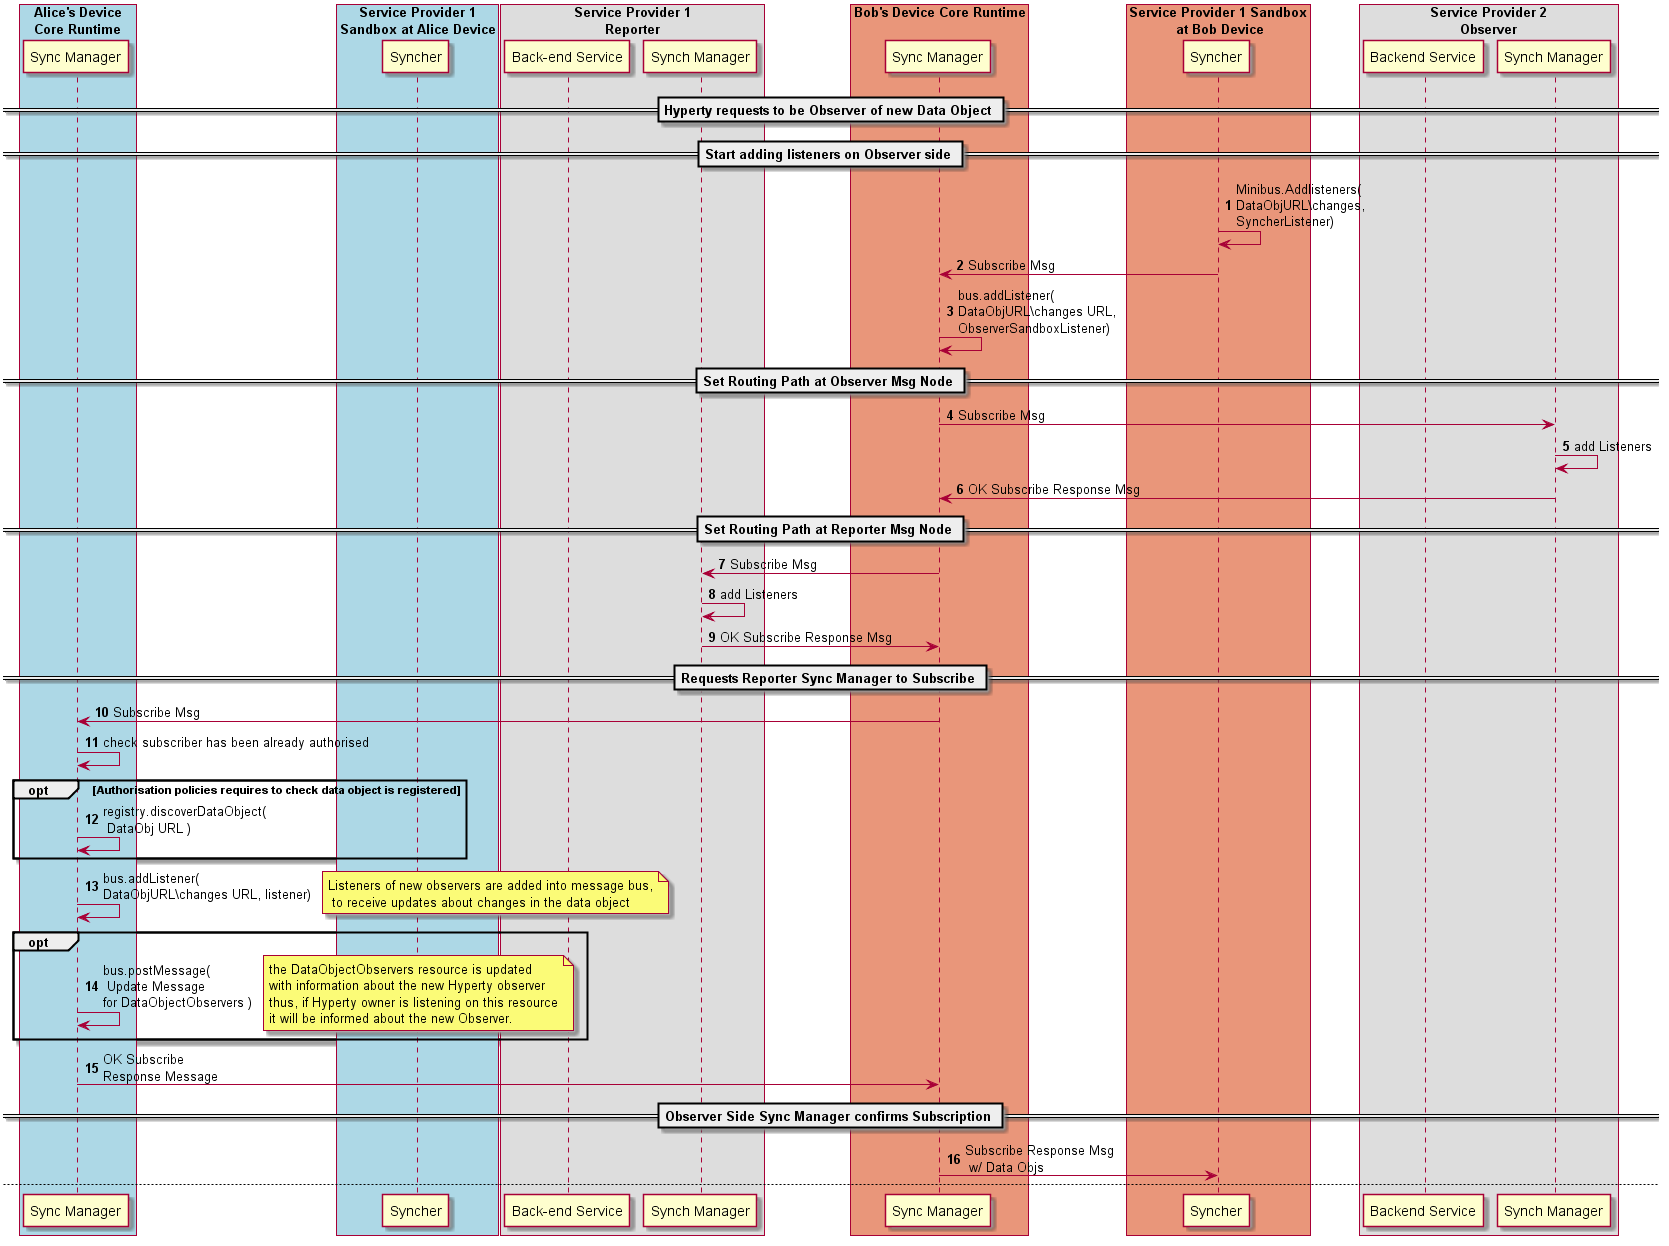
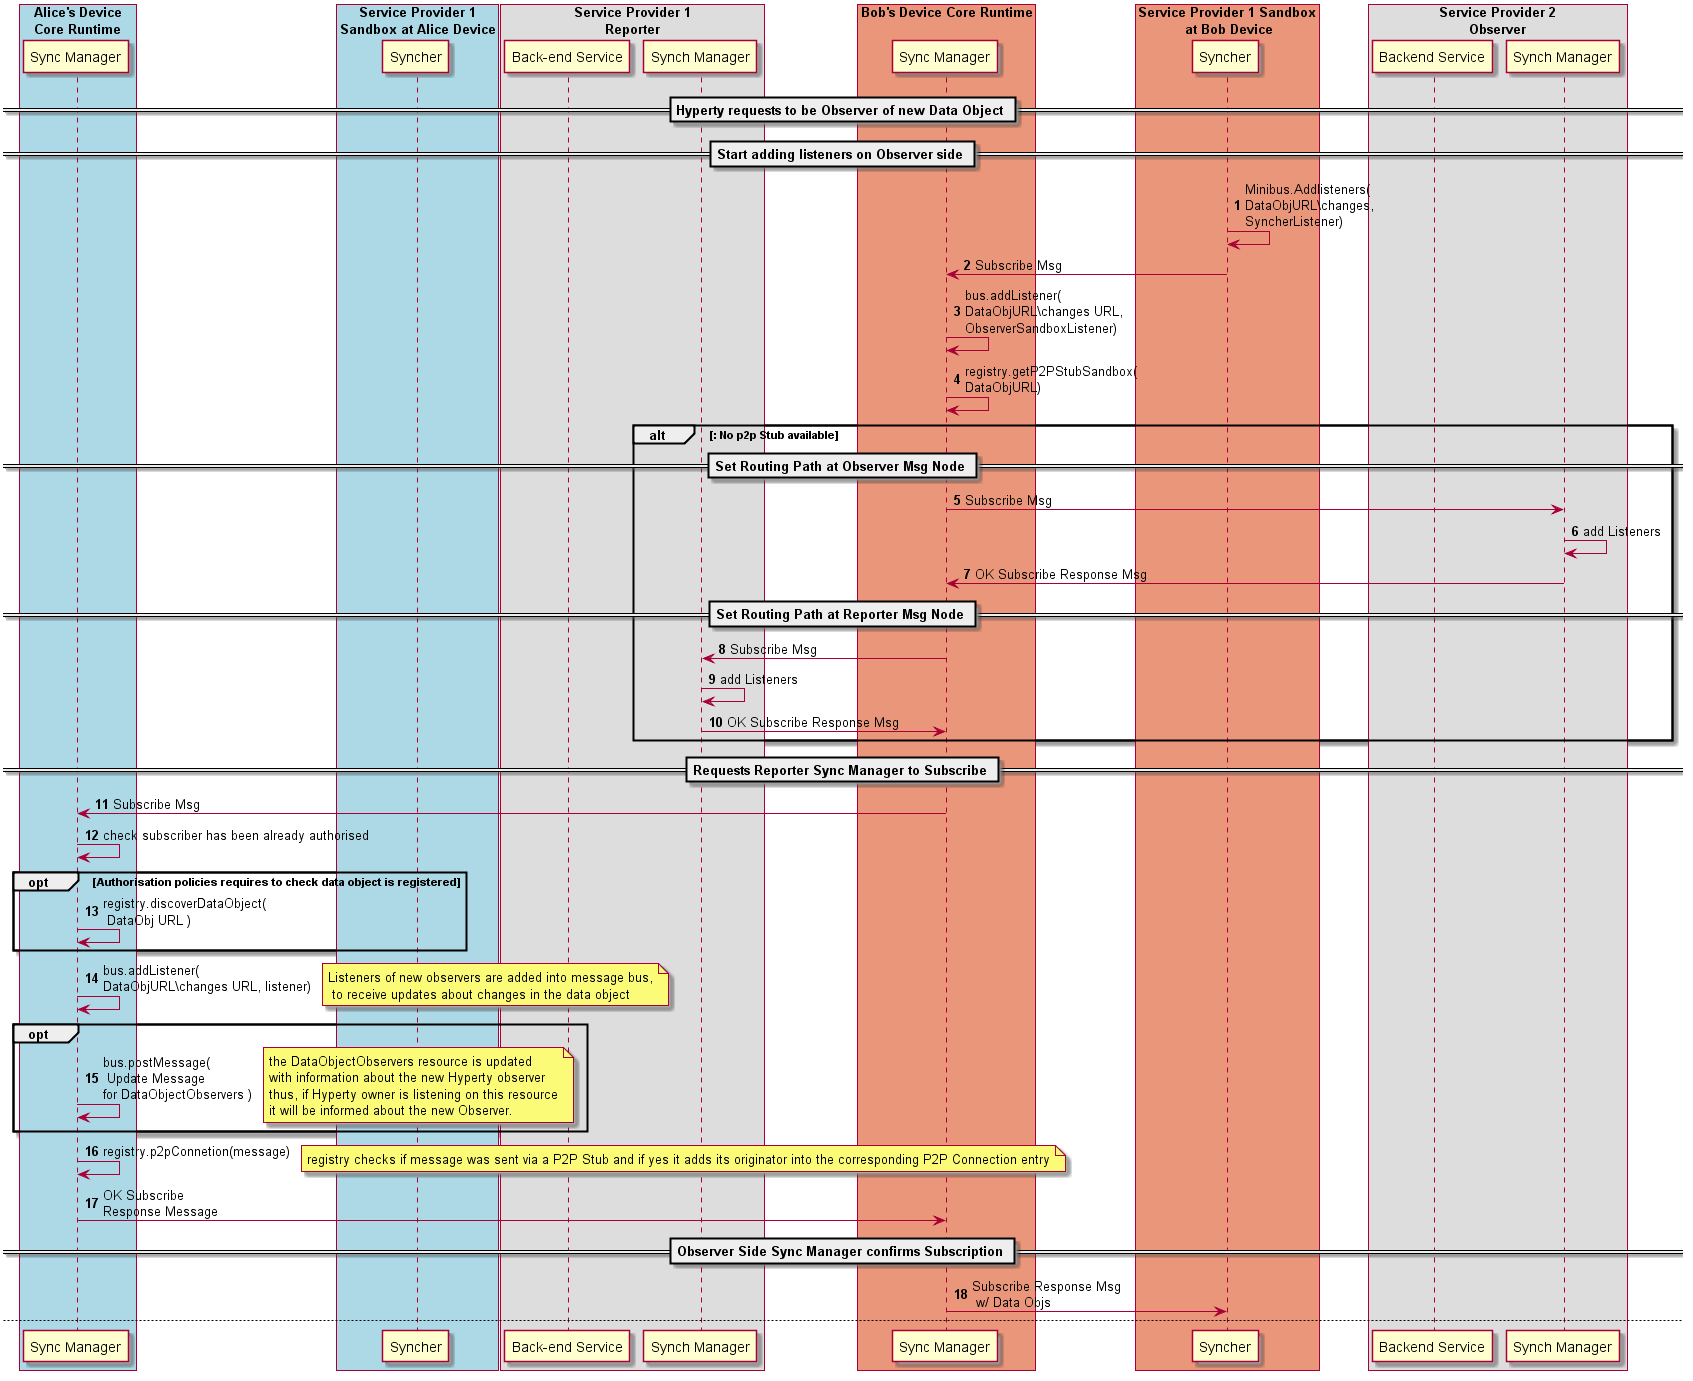
data sync spec extended to be supported by P2P stubs

Changed region(s): [[0.0, 0.0, 0.997, 1.0], [0.0, 0.9454, 0.0935, 1.0]]

diff --git a/dynamic-view/data-sync/data-object-subscription.md b/dynamic-view/data-sync/data-object-subscription.md
@@ -4,7 +4,7 @@
 
 To be an Observer of a Data Object, a [Subscription message](../../messages/data-sync-messages.md#hyperty-request-to-be-an-observer) is sent to the local Sync Manager.
 
-The Local Sync Manager adds Observer side listeners and [asks its Message Node](../../messages/data-sync-messages.md#data-sync-routing-path-setup-request-at-observer-message-node) to also add the required Listeners for the Data Object.
+The Local Sync Manager adds Observer side listeners and asks the Runtime Registry to check if the Data Object is reachable with a P2P Connection. If not, it [asks its Message Node](../../messages/data-sync-messages.md#data-sync-routing-path-setup-request-at-observer-message-node) to also add the required Listeners for the Data Object.
 
 As soon as observer side listeners are added for the Data Object, the [Subscription request is sent to the data object subscription URL (DataObjectURL/subscription)](../../messages/data-sync-messages.md#observer-subscription-request-sent-to-data-object-subscription-handler), which is implemented by the Synch Manager of the Reporter.
 
@@ -19,6 +19,8 @@ In case the subscription request is authorised, a listener of the new observer, 
 Optionally, the new Observer listener is added in the Message BUS to be notified about new Observers.
 
 Optionally, it is posted an UPDATE message into the DataObjectObserversURL with information about the new added Observer.
+
+The Sync Manager asks the Runtime Registry to check whether the data synchronisation can be done through a P2P Connection and if yes to ensure the new observer address is resolvable for such P2P Connection.
 
 As soon as the Subscription is accepted by the Reporter and all required listeners are added, an [OK RESPONSE message is sent back with the most update data object](../../messages/data-sync-messages.md#response-4).
 
